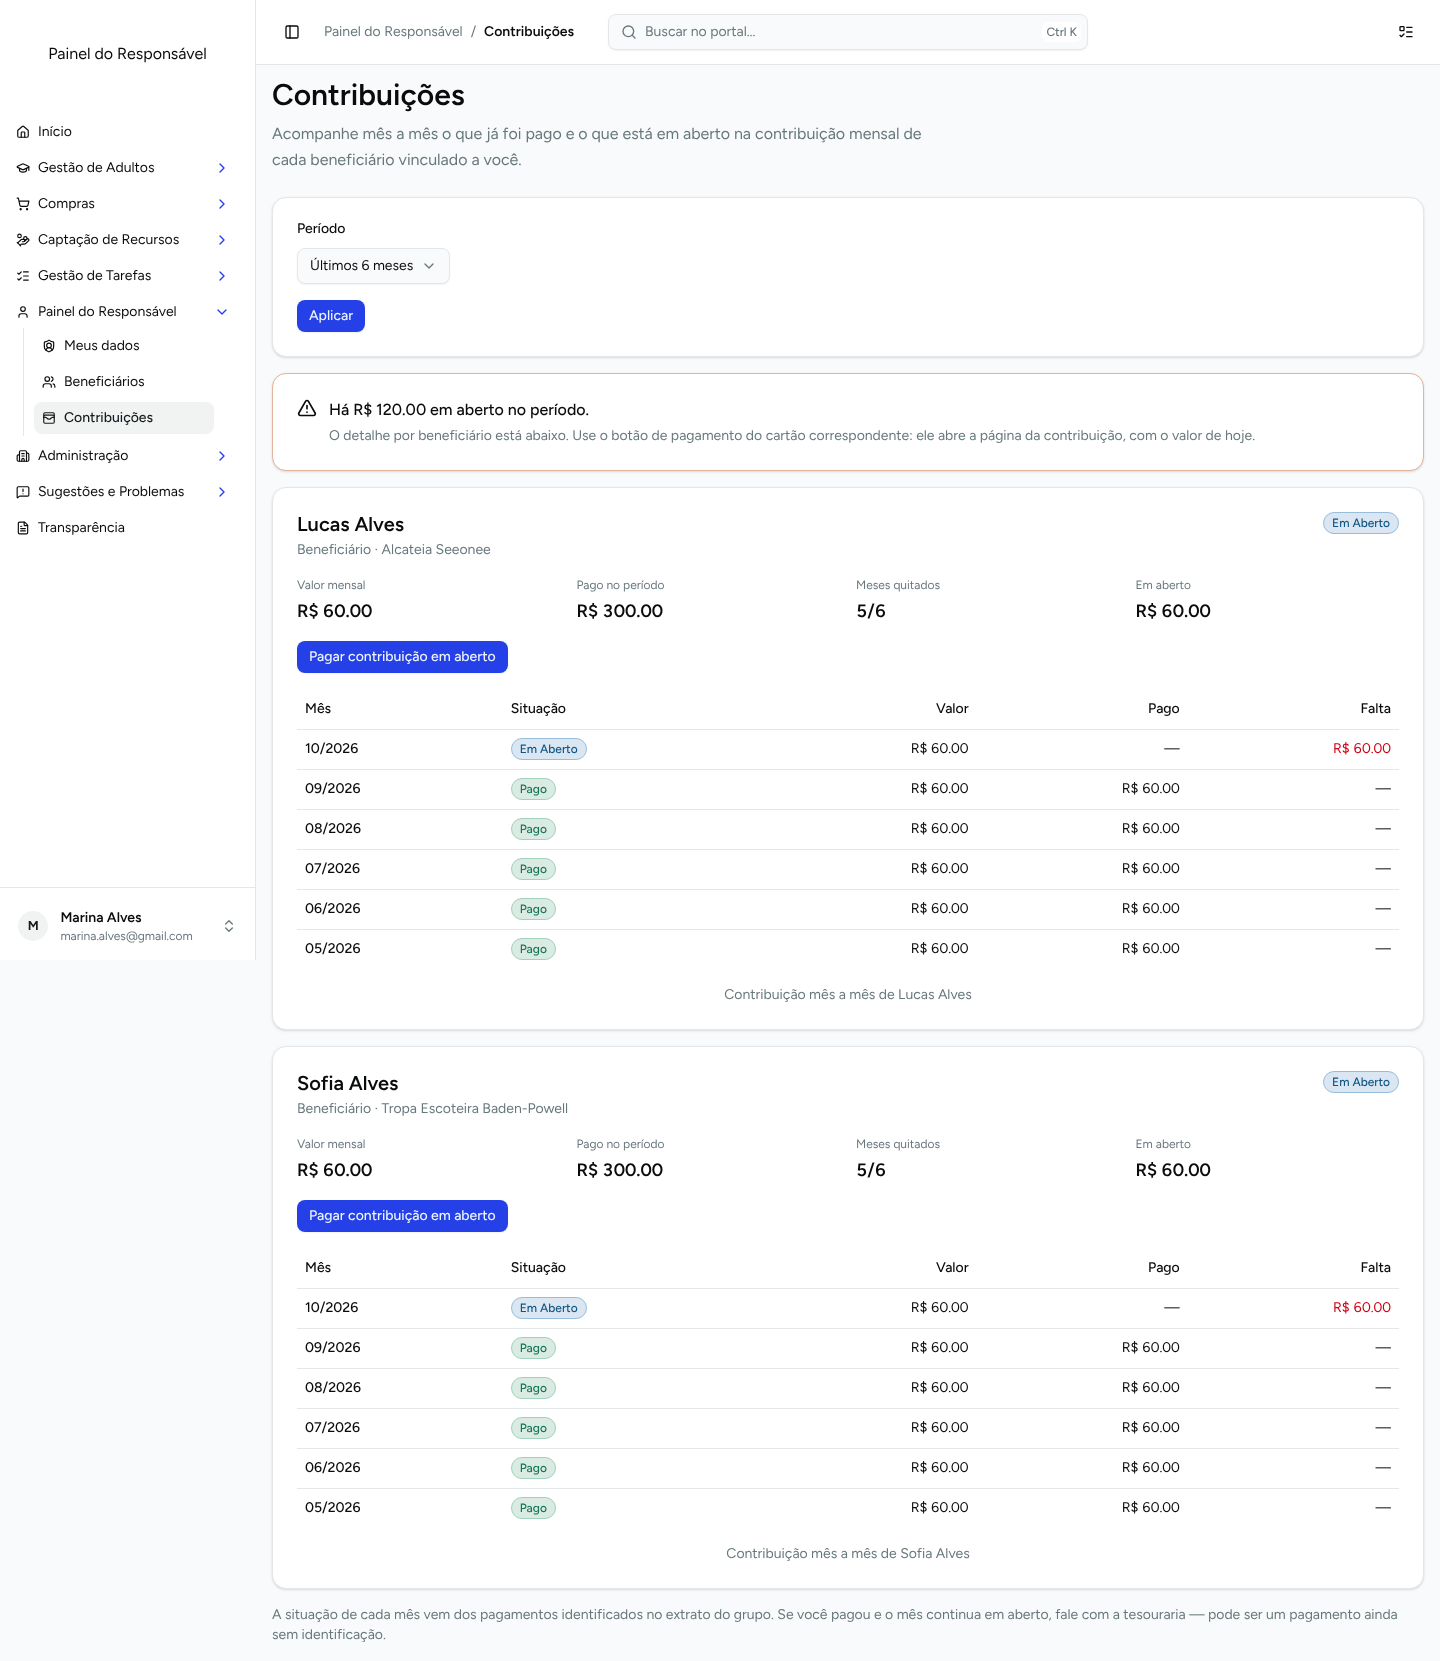
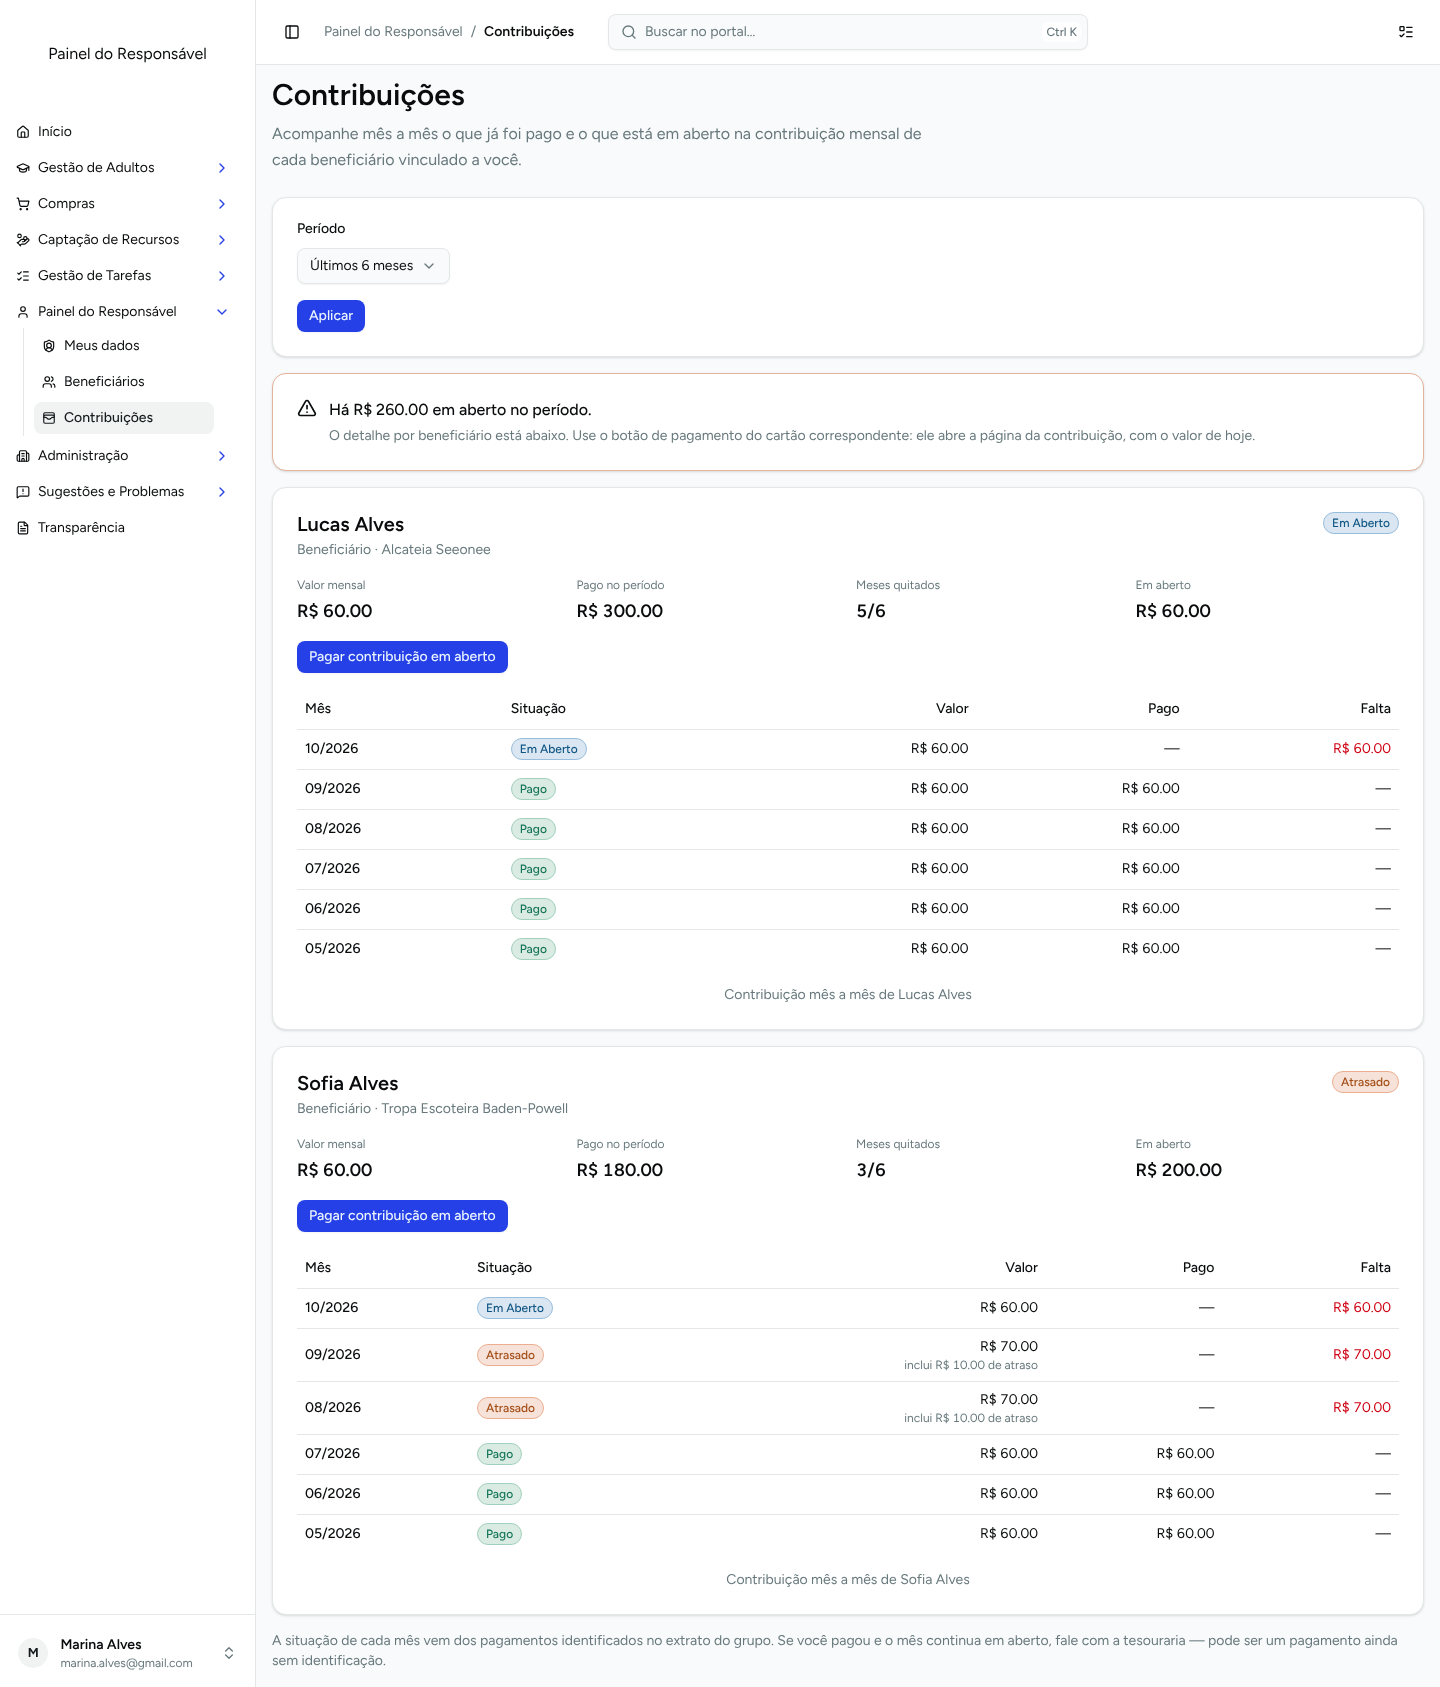
Responsável com dois filhos: teste sem mocks e prints
- TestResponsavelComDoisFilhos monta responsável, vínculos e mensalidades
  no banco: a mãe vê os dois filhos (um em dia, outra com dois meses em
  atraso), cada um com a própria pendência e o próprio link, o aviso do
  topo soma os dois e a outra família não aparece. A conta id@escoteiros
  da filha não chega ao irmão (o teste falha sem a correção).
- Prints: a página da mãe inteira, no computador e no celular, e a conta
  da filha sem beneficiários.

Claude-Session: https://claude.ai/code/session_01DMT7f4MY29DVVThJyn6fJd

diff --git a/gris/tests/test_responsavel_contribuicoes_pagina.py b/gris/tests/test_responsavel_contribuicoes_pagina.py
@@ -6,6 +6,7 @@ from unittest import mock
 
 import frappe
 from frappe.tests.utils import FrappeTestCase
+from frappe.utils import add_months
 
 from gris.www.responsavel import contribuicoes as pagina
 
@@ -72,3 +73,135 @@ class TestPaginaContribuicoesDoResponsavel(FrappeTestCase):
 
 	def test_template_compila(self):
 		self.assertTrue(frappe.get_template("gris/www/responsavel/contribuicoes.html"))
+
+
+def _beneficiario(cpf: str, nome: str, secao: str, email: str | None = None) -> str:
+	doc = frappe.get_doc(
+		{
+			"doctype": "Associado",
+			"cpf": cpf,
+			"nome_completo": nome,
+			"data_de_nascimento": "2014-01-01",
+			"categoria": "Beneficiário",
+			"status_no_grupo": "Ativo",
+			"status_cobranca": "Ativo",
+			"valor_contribuicao": 60.0,
+			"secao": secao,
+		}
+	).insert(ignore_permissions=True)
+	if email:
+		# Direto no banco: gravar `id_escoteiros` pelo documento dispararia a criação do usuário.
+		frappe.db.set_value("Associado", doc.name, "id_escoteiros", email, update_modified=False)
+	return doc.name
+
+
+def _mensalidades(associado: str, situacoes: str) -> None:
+	"""Uma mensalidade por letra, do mês mais antigo ao atual: P pago, A atrasado, E em aberto."""
+	hoje = datetime.date.today().replace(day=1)
+	for indice, letra in enumerate(situacoes):
+		atrasado = letra == "A"
+		frappe.get_doc(
+			{
+				"doctype": "Pagamento Contribuicao Mensal",
+				"associado": associado,
+				"mes_de_referencia": add_months(hoje, indice - len(situacoes) + 1),
+				"status": {"P": "Pago", "A": "Atrasado", "E": "Em Aberto"}[letra],
+				"valor": 70 if atrasado else 60,
+				"acrescimo_atraso": 10 if atrasado else 0,
+				"atrasou": int(atrasado),
+			}
+		).insert(ignore_permissions=True)
+
+
+def _usuario_responsavel(email: str) -> str:
+	if not frappe.db.exists("User", email):
+		frappe.get_doc(
+			{"doctype": "User", "email": email, "first_name": email.split("@")[0], "send_welcome_email": 0}
+		).insert(ignore_permissions=True)
+	frappe.get_doc("User", email).add_roles("Responsavel")
+	return email
+
+
+class TestResponsavelComDoisFilhos(FrappeTestCase):
+	"""Sem mocks na resolução: o responsável, os vínculos e a apuração vêm do banco."""
+
+	EMAIL_MAE = "mae.dois.filhos@exemplo.com"
+	EMAIL_FILHA = "filha.dois.filhos@escoteiros.org.br"
+
+	def setUp(self):
+		self.usuario_original = frappe.session.user
+		self.filho = _beneficiario("99000000611", "Filho Em Dia", "Alcateia Dois Filhos")
+		self.filha = _beneficiario(
+			"99000000612", "Filha Em Atraso", "Tropa Dois Filhos", email=self.EMAIL_FILHA
+		)
+		self.outra_familia = _beneficiario("99000000613", "Jovem De Outra Familia", "Alcateia Dois Filhos")
+		_mensalidades(self.filho, "PPPPPE")
+		_mensalidades(self.filha, "PPPAAE")
+		_mensalidades(self.outra_familia, "AAAAAA")
+
+		mae = frappe.get_doc(
+			{
+				"doctype": "Responsavel",
+				"nome_completo": "Mãe De Dois Filhos",
+				"cpf": "99000000614",
+				"email": self.EMAIL_MAE,
+			}
+		).insert(ignore_permissions=True)
+		pai_de_outra = frappe.get_doc(
+			{"doctype": "Responsavel", "nome_completo": "Pai De Outra Familia", "cpf": "99000000615"}
+		).insert(ignore_permissions=True)
+		for responsavel, beneficiario in (
+			(mae.name, self.filho),
+			(mae.name, self.filha),
+			(pai_de_outra.name, self.outra_familia),
+		):
+			frappe.get_doc(
+				{
+					"doctype": "Responsavel Vinculo",
+					"responsavel": responsavel,
+					"beneficiario_associado": beneficiario,
+				}
+			).insert(ignore_permissions=True)
+
+		_usuario_responsavel(self.EMAIL_MAE)
+		_usuario_responsavel(self.EMAIL_FILHA)
+
+	def tearDown(self):
+		frappe.set_user(self.usuario_original)
+		frappe.db.rollback()
+
+	def _contexto(self, user: str) -> frappe._dict:
+		contexto = frappe._dict()
+		frappe.set_user(user)
+		with mock.patch.object(pagina, "enrich_context"):
+			pagina.get_context(contexto)
+		return contexto
+
+	def test_mae_ve_os_dois_filhos_e_mais_ninguem(self):
+		contexto = self._contexto(self.EMAIL_MAE)
+		por_id = {b["id"]: b for b in contexto.beneficiarios}
+
+		self.assertEqual(set(por_id), {self.filho, self.filha})
+		self.assertNotIn(self.outra_familia, por_id)
+		self.assertTrue(contexto.tem_vinculo)
+
+	def test_cada_filho_tem_a_propria_situacao_e_o_proprio_link(self):
+		contexto = self._contexto(self.EMAIL_MAE)
+		por_id = {b["id"]: b for b in contexto.beneficiarios}
+		filho, filha = por_id[self.filho], por_id[self.filha]
+
+		self.assertEqual(filho["meses_em_atraso"], 0)
+		self.assertEqual(filho["total_pendente"], 60)
+		self.assertEqual(filha["meses_em_atraso"], 2)
+		self.assertEqual(filha["total_pendente"], 70 + 70 + 60)
+		self.assertNotEqual(filho["link_pagamento"], filha["link_pagamento"])
+
+		# O aviso do topo soma as duas pendências, e a família não está em dia.
+		self.assertEqual(contexto.total_pendente, filho["total_pendente"] + filha["total_pendente"])
+		self.assertFalse(contexto.em_dia)
+
+	def test_filha_logada_nao_ve_o_irmao(self):
+		# A conta id@escoteiros da filha tem vínculo como beneficiária, não como responsável.
+		contexto = self._contexto(self.EMAIL_FILHA)
+		self.assertFalse(contexto.tem_vinculo)
+		self.assertEqual(contexto.beneficiarios, [])
